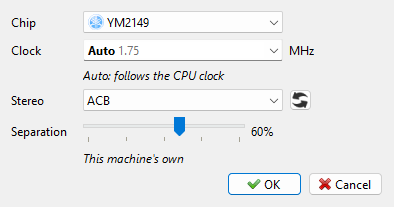
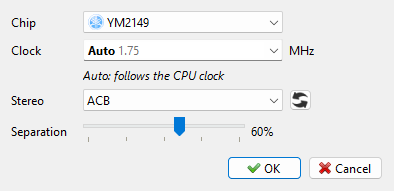
manual: Global setting names the Sound page's pick, the result noted under it

diff --git a/docs/manual/options-machine.md b/docs/manual/options-machine.md
@@ -185,9 +185,9 @@ The beeper is a single bit of a port, but what you heard from it depended on the
 the sound chip went the same way. The **Board filter** list picks what this machine is
 heard through:
 
-- **Global setting**, the default - what the **Board filter** of the **Sound** page gives
-  this machine, in gray: **Global setting (No filter)**, or with **By machine** there, its
-  board's own: **Global setting (TV (RF))**.
+- **Global setting**, the default - the **Board filter** of the **Sound** page, in gray:
+  **Global setting (No filter)**, or with **By machine** there, **Global setting (Machine
+  spec)**, its board's own. Its tooltip says what this machine is heard through.
 - **Machine spec** - its board's own: **Machine spec (TV (RF))** on the 128K, **Machine
   spec (No filter)** on the Pentagon.
 - under a line, **No filter** and the other filters.
@@ -238,9 +238,10 @@ The {icon}`settings` gear opens **Machine: PSG**:
   most clones. Music written for one of them sounds a little out of tune on the other.
   You can also type a clock of your own.
 - **Stereo** - the order of the three voices from left to right for this machine. The
-  first choice, the default, is what **PSG stereo** of the **Sound** page gives it -
-  **Global setting (ABC, 75%)**, or with **By machine** there, how this board sends
-  them out. **Machine spec** is the board's own whatever the **Sound** page says: **Machine
+  first choice, the default, is **PSG stereo** of the **Sound** page - **Global setting
+  (ABC, 75%)**, or with **By machine** there, **Global setting (Machine spec)**: how this
+  board sends them out. The line under it says what you hear: **Result: Mono (machine
+  spec)**. **Machine spec** is the board's own whatever the **Sound** page says: **Machine
   spec (Mono)** on the 128K, **Machine spec (ABC)** on the Pentagon. **Mono** or another
   order is this machine's own too. The {icon}`refresh` button puts it
   back on the first choice (see [A machine's own](options-sound.md#a-machines-own)).

diff --git a/docs/manual/options-sound.md b/docs/manual/options-sound.md
@@ -100,10 +100,12 @@ The rest of the **Sound** page is the same for every machine.
 A machine can be heard otherwise than this page says: its **PSG stereo** and **Separation**
 in **Machine: PSG** (see [PSG](options-machine.md#psg)), its **Board filter** on the
 **Machine** page (see [Board filter](options-machine.md#board-filter)). The first two
-choices of those lists say in gray what they give this machine:
+choices of those lists say in gray what they stand for:
 
-- **Global setting**, the default - what this page gives it: **Global setting (ABC, 75%)**,
-  or with **By machine** here, how its board was made: **Global setting (Mono)**;
+- **Global setting**, the default - this page's choice: **Global setting (ABC, 75%)**, or
+  with **By machine** here, **Global setting (Machine spec)**: each machine as its board was
+  made. What it gives this machine is noted under **Stereo** in **Machine: PSG** - **Result:
+  Mono (machine spec)** - and in the **Board filter**'s tooltip;
 - **Machine spec** - how its board was made, whatever this page says: **Machine spec (TV
   (RF))**;
 - then, under a line, the values.
